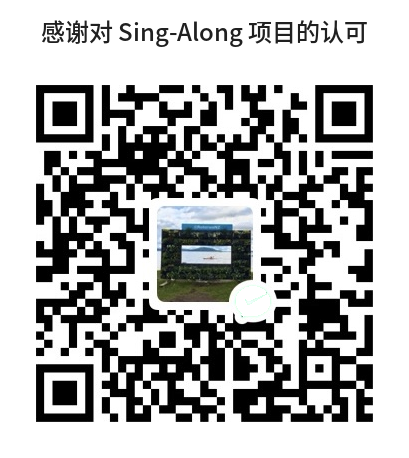
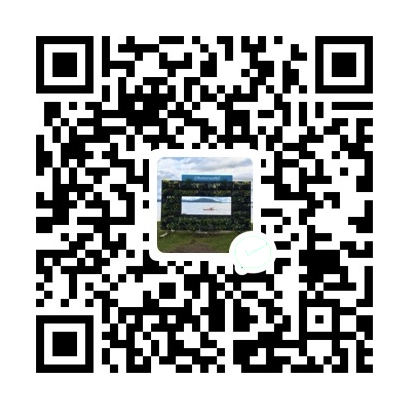
Describe the app in the window title, simplify the donate image, drop publish
Window title is now "Sing-Along Player: Offline music lyric download/edit/export"
(or the Chinese equivalent). The OS title comes from tauri.conf.json at launch,
which is fixed, so the language switch also writes it through the window API to
keep it in step with the UI. index.html carries the English text as the
pre-hydration fallback.

The donation QR image is now just the code. Its title was baked into the pixels,
which meant it could not be translated and could not be laid out by the page;
About renders "Thanks for your donation!" / "感谢您的赞赏！" above it instead, in
both languages at once, since the payment app is Chinese and neither audience
should have to infer what the other line says.

The editor's split save button is a plain Save. Publishing to the community
database is disabled on both sides: the command is no longer registered in the
invoke handler and the header no longer emits the event, but the implementation
and its modal are kept intact behind a comment so re-enabling is one line.

diff --git a/src/components/library/edit-lyrics-v2/EditLyricsV2HeaderActions.vue b/src/components/library/edit-lyrics-v2/EditLyricsV2HeaderActions.vue
@@ -9,12 +9,12 @@
           @click="emit('save')"
         >
           <ContentSave class="text-base" />
-          Save
+          {{ $t('actions.save') }}
         </button>
 
         <template #popper>
           <div class="text-xs font-bold">
-            Save lyrics
+            {{ $t('editor.saveHint') }}
             <span class="text-[0.65rem] text-neutral-800 bg-neutral-50 px-1 rounded-full"
               >Ctrl+S</span
             >
@@ -32,18 +32,9 @@
 
         <template #popper>
           <div class="dropdown-container">
-            <div class="dropdown-section-label">{{ $t('editor.publishHint') }}</div>
-            <div class="px-2 py-2">
-              <button
-                v-close-popper
-                class="button button-primary w-full text-sm h-8 rounded"
-                @click="emit('save-and-publish')"
-              >
-                {{ $t('editor.saveAndPublish') }}
-              </button>
-            </div>
-
-            <div class="dropdown-divider" />
+            <!-- Publishing to the community database is disabled for now: the
+                 code path stays (see EditLyricsV2PublishModal) but is not
+                 reachable from the UI. -->
             <div class="dropdown-section-label">{{ $t('editor.exportHint') }}</div>
 
             <label class="dropdown-item">
@@ -107,7 +98,7 @@ import ContentSave from '~icons/mdi/content-save'
 import CheckboxButton from '@/components/common/CheckboxButton.vue'
 import { invoke } from '@tauri-apps/api/core'
 
-const emit = defineEmits(['save', 'save-and-publish', 'export'])
+const emit = defineEmits(['save', 'export'])
 
 const exportPlainText = ref(false)
 const exportSyncedLrc = ref(false)

diff --git a/src/i18n/index.js b/src/i18n/index.js
@@ -77,6 +77,25 @@ const i18n = createI18n({
 export function initLocale() {
   i18n.global.locale.value = resolveLocale(readLocalePreference())
   document.documentElement.setAttribute('lang', i18n.global.locale.value)
+  applyWindowTitle()
+}
+
+/**
+ * Keep the OS window title in the UI language.
+ *
+ * The title is set from tauri.conf.json at launch, which is fixed English. The
+ * window manager reads that, not the HTML <title>, so switching language has to
+ * write it through the Tauri window API as well.
+ */
+async function applyWindowTitle() {
+  document.title = i18n.global.t('app.windowTitle')
+  try {
+    const { getCurrentWindow } = await import('@tauri-apps/api/window')
+    await getCurrentWindow().setTitle(i18n.global.t('app.windowTitle'))
+  } catch {
+    // Running outside Tauri (tests, a plain browser): the document title is all
+    // there is, and it has already been set.
+  }
 }
 
 /** Switch language and remember the choice. */
@@ -88,6 +107,7 @@ export function setLocale(preference) {
 function setLocaleValue(preference) {
   i18n.global.locale.value = resolveLocale(preference)
   document.documentElement.setAttribute('lang', i18n.global.locale.value)
+  applyWindowTitle()
 }
 
 export default i18n

diff --git a/src/components/About.vue b/src/components/About.vue
@@ -85,15 +85,20 @@
         <label class="group-label mb-2">{{ $t('about.donate') }}</label>
 
         <div class="text-sm text-neutral-800 dark:text-neutral-300">
+          <!-- Both lines are shown in every UI language: the payment app is
+               Chinese, so an English-only reader still needs to recognise what
+               the code is for, and a Chinese reader should not have to infer it
+               from a translation of an English sentence. -->
+          <div class="text-center mb-3 leading-relaxed">
+            <div class="font-bold">Thanks for your donation!</div>
+            <div class="font-bold">感谢您的赞赏！</div>
+          </div>
           <img
             :src="donateQr"
             :alt="$t('about.donateAlt')"
             class="w-56 mx-auto"
             draggable="false"
           />
-          <div class="mt-2 text-xs text-neutral-500 dark:text-neutral-400 text-center">
-            {{ $t('about.donateHint') }}
-          </div>
         </div>
       </div>
     </div>

diff --git a/src/components/library/EditLyricsV2.vue b/src/components/library/EditLyricsV2.vue
@@ -12,7 +12,6 @@
         :is-dirty="isDirty"
         :is-exporting="isExporting"
         @save="saveLyrics"
-        @save-and-publish="saveAndPublish"
         @export="exportLyrics"
       />
     </template>
@@ -262,6 +261,9 @@ const codemirrorStyle = ref({
   fontSize: 1.0,
 })
 
+// Publishing to the community database is disabled: the composable and its
+// modal are kept so the feature can be re-enabled by wiring this back up.
+// eslint-disable-next-line no-unused-vars
 const { saveAndPublish } = useEditLyricsV2Publish({
   audioSource: audioSourceRef,
   lyricsfileDocument: lyricsfileDocument,

diff --git a/src/i18n/locales/zh-Hans.js b/src/i18n/locales/zh-Hans.js
@@ -2,6 +2,7 @@
 export default {
   app: {
     name: 'Sing-Along',
+    windowTitle: 'Sing-Along 播放器：离线歌曲歌词下载/编辑/导出',
     loadingLibrary: '正在加载曲库…',
   },
 
@@ -153,6 +154,7 @@ export default {
     exportHint: '导出到歌曲所在目录：',
     savingAndExporting: '正在保存并导出…',
     saveAndExport: '保存并导出',
+    saveHint: '保存歌词',
     saveAndPublish: '保存并发布',
   },
 

diff --git a/src/i18n/locales/zh-Hant.js b/src/i18n/locales/zh-Hant.js
@@ -2,6 +2,7 @@
 export default {
   app: {
     name: 'Sing-Along',
+    windowTitle: 'Sing-Along 播放器：離線歌曲歌詞下載/編輯/匯出',
     loadingLibrary: '正在載入曲庫…',
   },
 
@@ -153,6 +154,7 @@ export default {
     exportHint: '匯出到歌曲所在目錄：',
     savingAndExporting: '正在儲存並匯出…',
     saveAndExport: '儲存並匯出',
+    saveHint: '儲存歌詞',
     saveAndPublish: '儲存並發佈',
   },
 

diff --git a/src/i18n/locales/en.js b/src/i18n/locales/en.js
@@ -9,6 +9,7 @@
 export default {
   app: {
     name: 'Sing-Along',
+    windowTitle: 'Sing-Along Player: Offline music lyric download/edit/export',
     loadingLibrary: 'Loading library...',
   },
 
@@ -160,6 +161,7 @@ export default {
     exportHint: "Export to track's directory:",
     savingAndExporting: 'Saving and exporting...',
     saveAndExport: 'Save and export',
+    saveHint: 'Save lyrics',
     saveAndPublish: 'Save and Publish',
   },
 

diff --git a/index.html b/index.html
@@ -4,7 +4,7 @@
     <meta charset="UTF-8" />
     <link rel="icon" type="image/svg+xml" href="/vite.svg" />
     <meta name="viewport" content="width=device-width, initial-scale=1.0" />
-    <title>Sing-Along</title>
+    <title>Sing-Along Player: Offline music lyric download/edit/export</title>
   </head>
 
   <body>

diff --git a/tools/make-donate-qr.py b/tools/make-donate-qr.py
@@ -17,7 +17,6 @@ FONT = "/usr/share/fonts/opentype/noto/NotoSansCJK-Regular.ttc"
 FONT_BOLD = "/usr/share/fonts/opentype/noto/NotoSansCJK-Medium.ttc"
 
 GREEN = (88, 190, 107)  # WeChat's card surround, sampled from the source
-TITLE = "感谢对 Sing-Along 项目的认可"
 
 
 def crop_qr(src: Image.Image) -> Image.Image:
@@ -73,47 +72,15 @@ def main() -> int:
 
     qr = crop_qr(Image.open(src_path))
 
-    # The title has to fit inside the QR's own width, otherwise the canvas grows
-    # sideways and the code ends up floating in whitespace. Rather than wrap the
-    # line, step the font size down until it fits.
+    # The image is the code alone. Any wording belongs in the app's own UI, not
+    # baked into the pixels: that keeps it translatable and lets the text and
+    # the code be laid out by the page rather than by this script.
     margin = 20
-    title_gap = 22
-
-    probe = ImageDraw.Draw(Image.new("RGB", (1, 1)))
-    max_text_w = qr.width - margin * 2
-
-    title_size = 38
-    while title_size > 12:
-        font = ImageFont.truetype(FONT_BOLD, title_size)
-        if probe.textbbox((0, 0), TITLE, font=font)[2] <= max_text_w:
-            break
-        title_size -= 1
-
-    font = ImageFont.truetype(FONT_BOLD, title_size)
-    # Use the glyph box, not the font metrics: the metrics include leading above
-    # and below the glyphs, which would silently eat the gap we just reserved.
-    box = probe.textbbox((0, 0), TITLE, font=font)
-    text_w, text_h = box[2] - box[0], box[3] - box[1]
-
-    width = qr.width + margin * 2
-    height = margin + text_h + title_gap + qr.height + margin
-
-    canvas = Image.new("RGB", (width, height), (255, 255, 255))
-    draw = ImageDraw.Draw(canvas)
-
-    draw.text(
-        ((width - text_w) // 2, margin - box[1]),
-        TITLE,
-        font=font,
-        fill=(32, 32, 32),
-    )
-
-    card_x = (width - qr.width) // 2
-    card_y = margin + text_h + title_gap
-    canvas.paste(qr, (card_x, card_y))
+    canvas = Image.new("RGB", (qr.width + margin * 2, qr.height + margin * 2), (255, 255, 255))
+    canvas.paste(qr, (margin, margin))
 
     canvas.save(out_path, "PNG", optimize=True)
-    print(f"{out_path}: {canvas.width}x{canvas.height} (title {title_size}px)")
+    print(f"{out_path}: {canvas.width}x{canvas.height}")
     return 0
 
 

diff --git a/src-tauri/src/main.rs b/src-tauri/src/main.rs
@@ -1380,7 +1380,15 @@ async fn save_lyrics(
     Ok("Lyrics saved successfully".to_owned())
 }
 
-#[tauri::command]
+/// Upload a lyricsfile to the LRCLIB community database.
+///
+/// DISABLED. Not registered in the invoke handler (see the comment there), kept
+/// so the feature can be restored without rebuilding it from history. Adding
+/// `#[tauri::command]` back and uncommenting the registration is enough.
+///
+/// The frontend no longer offers it: the editor's split save button became a
+/// plain Save.
+#[allow(dead_code)]
 async fn publish_lyrics(
     title: String,
     album_name: String,
@@ -2098,7 +2106,11 @@ async fn main() {
             search_lyrics,
             search_lyrics_multi,
             save_lyrics,
-            publish_lyrics,
+            // Publishing to the community database is disabled for now. The
+            // command below is kept so re-enabling it is a one-line change;
+            // unregistering it means a stale frontend build cannot reach the
+            // network path even by accident.
+            // publish_lyrics,
             export_lyrics,
             export_track_lyrics,
             get_track_ids_with_lyrics,

diff --git a/src-tauri/src/cover.rs b/src-tauri/src/cover.rs
@@ -183,7 +183,7 @@ fn embed_cover_mp3(track_path: &str, bytes: &[u8]) -> Result<()> {
 
 fn embed_cover_flac(track_path: &str, bytes: &[u8]) -> Result<()> {
     use lofty::config::{ParseOptions, WriteOptions};
-    use lofty::file::{AudioFile, TaggedFileExt};
+    use lofty::file::AudioFile;
     use lofty::flac::FlacFile;
     use lofty::ogg::OggPictureStorage;
     use lofty::picture::{Picture, PictureType};
@@ -212,15 +212,6 @@ fn embed_cover_flac(track_path: &str, bytes: &[u8]) -> Result<()> {
     Ok(())
 }
 
-fn detect_mime(bytes: &[u8]) -> &'static str {
-    if bytes.starts_with(&[0xFF, 0xD8]) {
-        "image/jpeg"
-    } else if bytes.starts_with(&[0x89, b'P', b'N', b'G']) {
-        "image/png"
-    } else {
-        "image/jpeg"
-    }
-}
 
 #[cfg(test)]
 mod tests {
